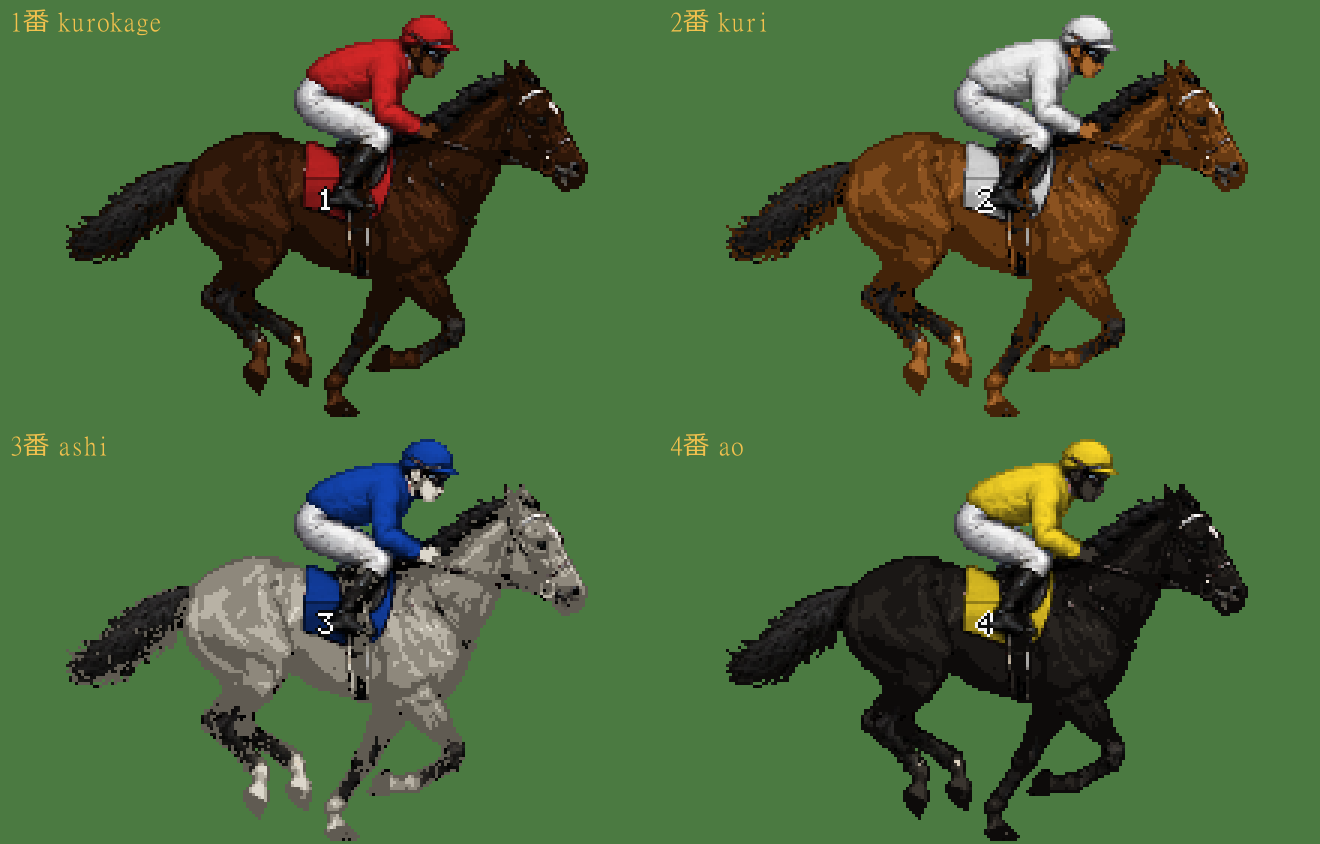
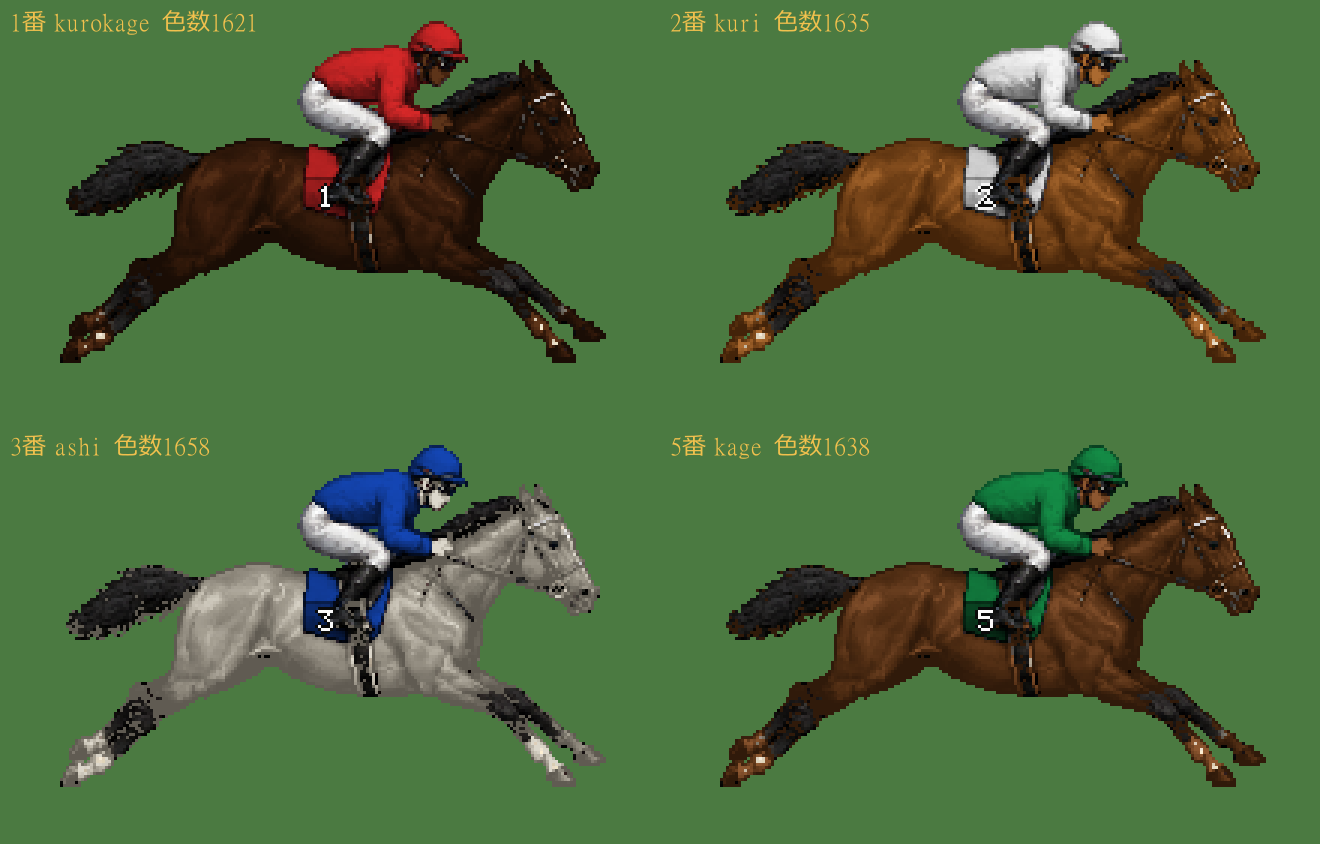
★毛色を4階調に量子化していたのをやめ、連続に補間（筋肉の陰影が4色に潰れていた）

diff --git a/apps/web/public/art/still-reference.js b/apps/web/public/art/still-reference.js
@@ -99,9 +99,20 @@
       if (s >= 0.35 && h >= 200 && h <= 260) {
         d[i] = silk[0] * v; d[i + 1] = silk[1] * v; d[i + 2] = silk[2] * v;
       } else if (s >= 0.18 && h >= 8 && h <= 48) {
-        var step = v > 0.62 ? 0 : v > 0.45 ? 1 : v > 0.28 ? 2 : 3;
-        var t = ramp[step];
-        d[i] = t[0]; d[i + 1] = t[1]; d[i + 2] = t[2];
+        /**
+         * ★**4階調への量子化をやめ、連続に補間します。**
+         *
+         * ⚠ 4段だと**筋肉の陰影が4色に潰れ**、馬が平板になります
+         *    （オーナー判定「劣化している」の原因）。
+         *    元の素材は約 7,000 色あり、その明暗が馬体の立体を作っています。
+         * ★毛色の意図（4色の階調）はそのままに、**その間を明るさで補間**します。
+         */
+        var tt = (0.72 - Math.min(0.72, Math.max(0.16, v))) / (0.72 - 0.16) * 3;
+        var i0 = Math.min(2, Math.floor(tt)), f0 = tt - i0;
+        var a0 = ramp[i0], b0 = ramp[i0 + 1];
+        d[i] = a0[0] + (b0[0] - a0[0]) * f0;
+        d[i + 1] = a0[1] + (b0[1] - a0[1]) * f0;
+        d[i + 2] = a0[2] + (b0[2] - a0[2]) * f0;
       }
       d[i] *= mul; d[i + 1] *= mul; d[i + 2] *= mul;
     }
